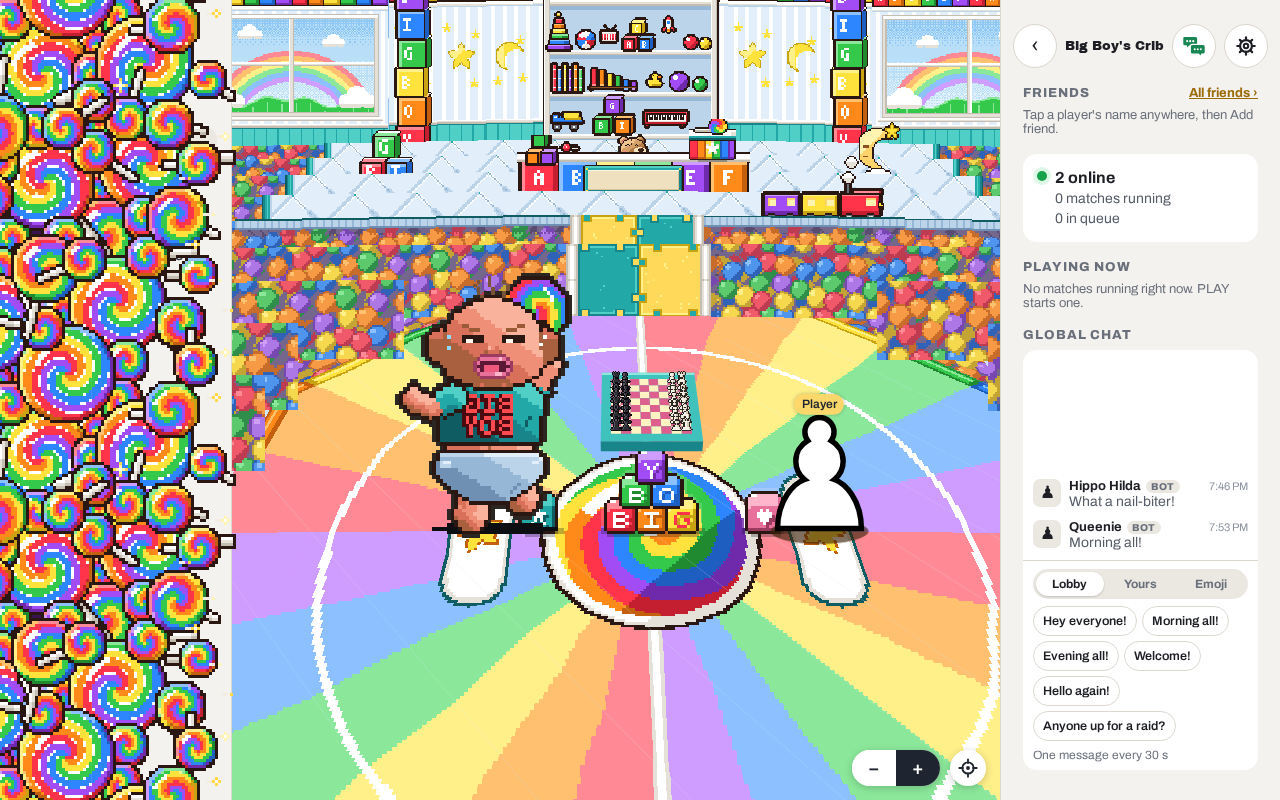
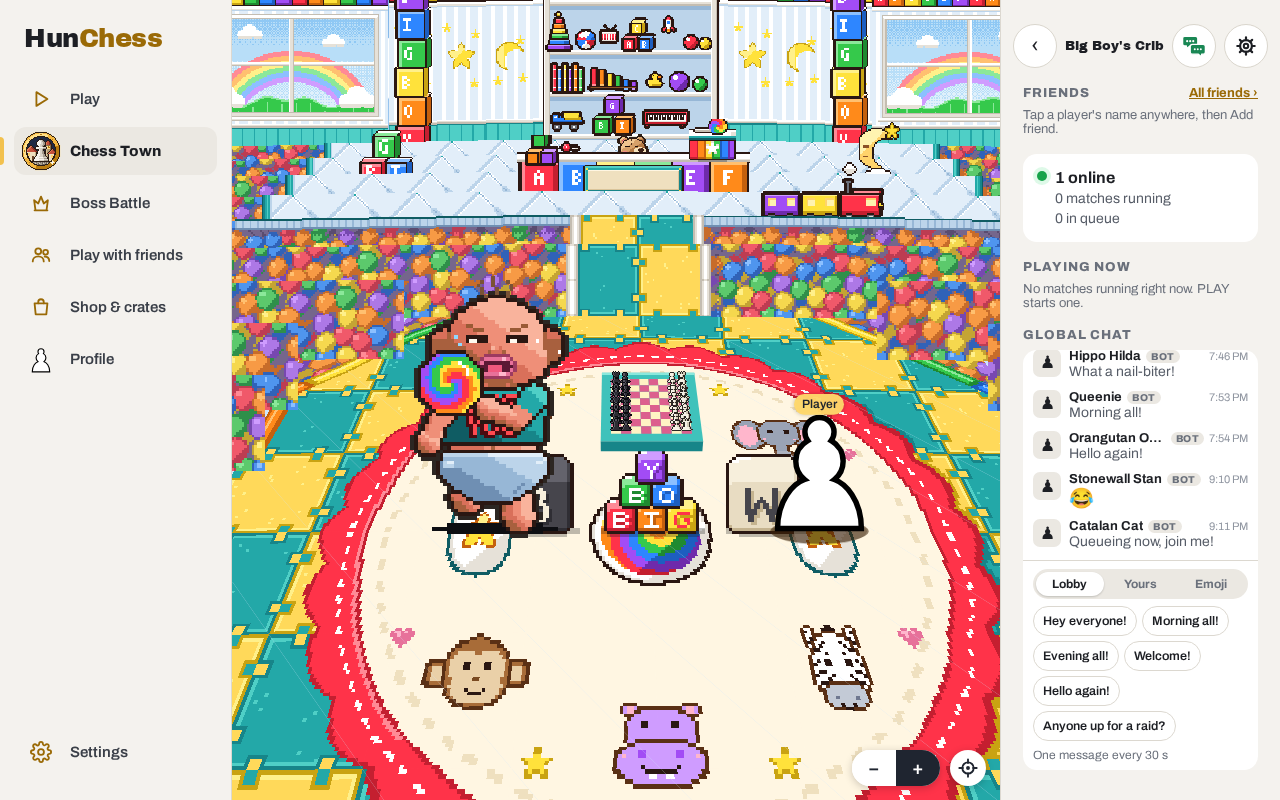
Big Boy's art update: stills and GIF refreshed (the rug, the B and W stools); e2e comments; the PR body's Art update
Claude-Session: https://claude.ai/code/session_01EKH5j59nMnRVnekEcuZbim

diff --git a/docs/bigboy-home/pr-body.md b/docs/bigboy-home/pr-body.md
@@ -9,15 +9,15 @@ lands, never rebased). The art is from `claude/boss-art` (`scripts/boss-art/out/
 
 **Big Boy's Crib is a shop**, as Babur's, Puddles' and Alfil's are: his card says "Go in"; the room is the art (`town/shops/bigboy-art.ts`,
 its imports moved, its room still and review strips left on the art branch, three lines of the airplane's drawing typed for the app's
-stricter checks): a ball pit (solid) under a foam walkway, the quilted shop platform and the rainbow battle circle you walk on; Blocky (his
+stricter checks): a ball pit (solid) under a foam walkway, the quilted shop platform and the battle circle you walk on (the walkway's foam squares, a zoo-animal rug in its middle); Blocky (his
 kid's sprite) the Shopkeeper behind the letter-block counter; "Big Boy's Boss Crate" (core's `BOSS_CRATES`: Big Boy's Buggy first, the same
-price and odds); a nursery ceiling (sky blue, clouds, little stars: the mockup's); the chat's day tone. His circle's start marks, drawn
-north and south, are turned west and east (a square and a half out, where the challenge stands you), the middle line north to south. The
-toy airplane is a deep piece (3 x 3 squares) that stands up whole at its foot (`RoomArt.upright`), not laid flat. Its own chunk: 32 kB.
+price and odds); a nursery ceiling (sky blue, clouds, little stars: the mockup's); the chat's day tone. His start marks are on the rug, west and
+east, a square and a half out (the art's `SHOP_BIGBOY_MARKS`, where the challenge stands you). The
+toy airplane is a deep piece (3 x 3 squares) that stands up whole at its foot (`RoomArt.upright`), not laid flat. Its own chunk: 36 kB.
 
-**Big Boy's challenge intro** (`BOSS_INTROS.bigboy`, layout "across", his own art: `town/shops/bigboy-intro-art.ts`, 10.5 kB): his line in
+**Big Boy's challenge intro** (`BOSS_INTROS.bigboy`, layout "across", his own art: `town/shops/bigboy-intro-art.ts`, 12 kB): his line in
 the bubble; six alphabet blocks drop in and stack 3-2-1 (B-I-G, B-O, Y), a clack each and a bonk for the top one; the board drops onto the
-top block (his toss) and plops on (dust and stars, a poof); two stool blocks drop in at your sides (a clack each); the table alone a
+top block (his toss) and plops on (dust and stars, a poof); two stool blocks drop in at your sides (a dark gray B on his side, a bone W on yours; a clack each); the table alone a
 moment; his God King attack beside the table from 2 s before the cover (as Alfil's); his lollipop swirl sweeps over the page, played as
 Alfil's sandstorm (his swish); the battle loads under it. About 1.2 s walking in, 3.7 s of intro, 0.6 s of swirl. The timeline code is
 Alfil's, generalized (`BlocksAnims` beside the pyramid's: `introBeats`, `introAt`, `introCues` read the art's own frame cues). The board is
@@ -95,6 +95,42 @@ Big Boy in the town" (phone and computer); `e2e/shop.spec.ts` "Big Boy's Crib" (
 - At the table: `bigboy-table-phone.png` (his attack beside it), `bigboy-table-desktop.png`.
 - GIFs (phone): his intro, from the walk in to the swirl and the battle under it, `bigboy-intro-phone.gif`; Timber's attack on the God King in
   his Last Stand, `timber-attack-phone.gif`.
+
+## Art update (Nov 2, the art's second pass)
+
+Eric: "make the big boy battle area the same tile style as the paths to the shop and exit; the center a zoo animal rug replacing the
+thin white circle; the battle spots sit on the rug", and bigger stools (a dark gray B, a bone W). Both art files re-copied from
+`claude/boss-art` (527991e3; imports moved, the review sheets left there, as before).
+
+- **His room:** the circle is the walkway's teal and yellow foam squares in its rainbow bumper, a cream zoo-animal rug (a lion, an
+  elephant, a giraffe, a monkey, a zebra, a hippo, stars and hearts, his little lollipop in the middle) with the two start pads on it,
+  west and east. The art exports them (`SHOP_BIGBOY_MARKS = { boss: [8, 10.5], you: [11, 10.5] }`); the room passes them to `marksOf`
+  (`RoomArt.marks`, a new optional `drawn` argument: across, you stand on them, the table halfway between). The same squares as before;
+  the app's turning of the old north and south marks is gone with them.
+- **His intro:** the stools are twice the size, a dark gray block with a bone **B** on the left (his side: the boss plays black) and a
+  bone block with a dark gray **W** on the right (yours); the table's picture is 127 wide (foot (63, 94)), everything else where it
+  was. The stools stay in the table's picture (`chairs`, `idle`), so the art's separate `INTRO_BIGBOY_STOOL_B` / `_W` are copied but
+  not wired. Nobody sits on them in the intro (you and the boss stand just past them, on the marks), so the new
+  `INTRO_BIGBOY_STOOL_SEAT_H` (20) moves no one.
+- Stills and GIF refreshed: `bigboy-table-phone.png`, `bigboy-table-desktop.png`, `bigboy-intro-phone.gif`.
+
+Changed checks (old → new):
+
+- `packages/app/test/boss-challenge.test.ts`, "the art: build 21 frames … his table three squares across, the board's slab on its top
+  block": `INTRO_BIGBOY_BLOCKS.w` 111 (three squares) and its foot in the middle square → `[w, foot]` = `[127, 63, 94]` (three squares
+  and 8 px each side); new in it: the stools' tops 24 over the foot a square either side (`stoolOff`), `STOOL_TOP_H` 24 and `SEAT_H` 20,
+  the dark gray face on the west (the boss's, black's) and the bone on the east (yours), and `INTRO_BIGBOY_STOOL_B` / `_W` 51 x 100,
+  foot (25, 94), one `stool` cue in `drop`. The slab-on-the-top-block check is unchanged.
+- Same file, "Big Boy's drawn start marks (his circle's own tiles) are where you stand across…" → "Big Boy's start marks
+  (SHOP_BIGBOY_MARKS, drawn on his rug) are where you stand across…": `marksOf(…, "across")` → `marksOf(…, "across",
+  SHOP_BIGBOY_MARKS)`, plus: you and the boss stand on `SHOP_BIGBOY_MARKS`, and the marks are the same as the layout's own. The pads'
+  squares (`8,10`, `8,11`, `11,10`, `11,11`, none north or south) are unchanged.
+- `e2e/boss-challenge.spec.ts`, "challenging Big Boy in the town": comments only (the rug's marks, his B and your W); its checks are
+  unchanged (you `[11, 10.5]`, he `[8, 10.5]`, the stools `[8.5, 10.5]`, `[10.5, 10.5]`).
+- None of these guards a rule in `docs/rules/eric.md`. No check removed.
+
+Tests run: `packages/app/test/{boss-challenge,shop-room}.test.ts` (66 pass); typecheck (app); e2e `boss-challenge.spec.ts -g "challenging
+Big Boy"`, phone and computer (both pass, under the shared lock on a port of its own).
 
 ## Lane
 
